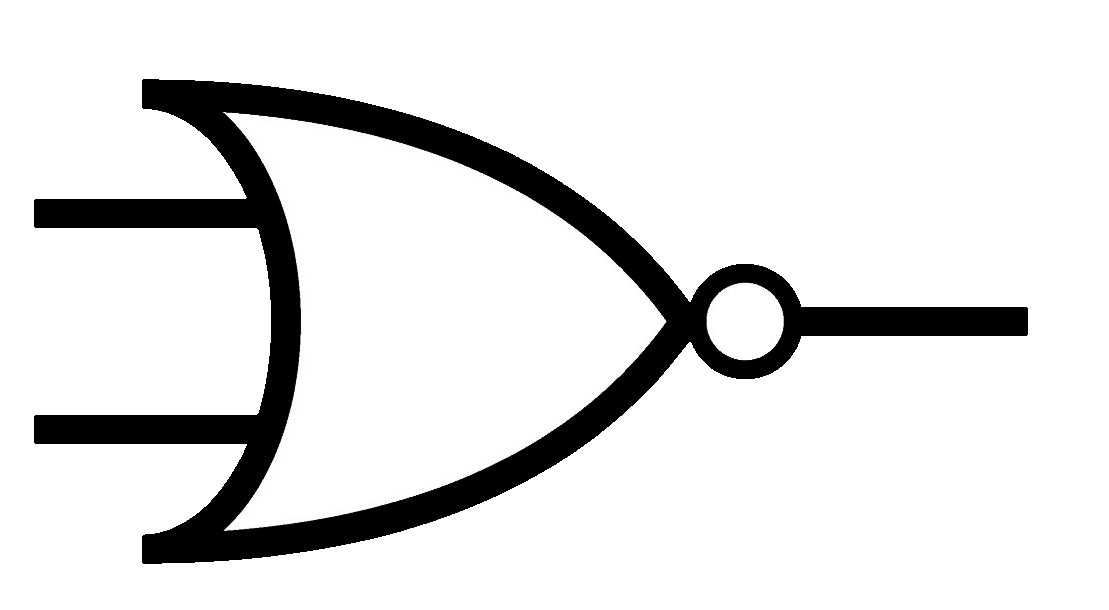
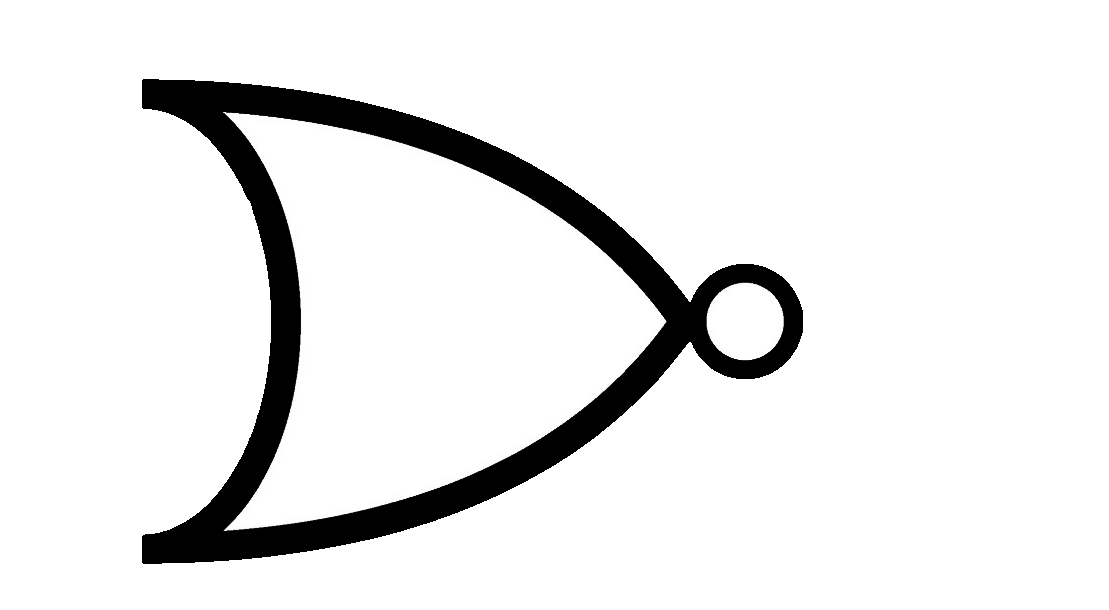
Changed gates to be leadless

Changed region(s): [[0.0307, 0.6541, 0.2453, 0.7475], [0.7051, 0.4984, 0.9504, 0.5607], [0.0307, 0.3115, 0.2453, 0.3738]]

diff --git a/GlobalHelp.cs b/GlobalHelp.cs
@@ -1,0 +1,18 @@
+using UnityEngine;
+
+public class GlobalHelp : MonoBehaviour
+{
+    private bool _global_help_on = false;
+
+    public void OnMouseDown()
+    {
+        _global_help_on = !_global_help_on;
+        Debug.Log("In " + this.name + " global help is now on: " + _global_help_on);
+    }
+
+    // Update is called once per frame
+    public bool IsGlobalHelpOn()
+    {
+        return _global_help_on;
+    }
+}
